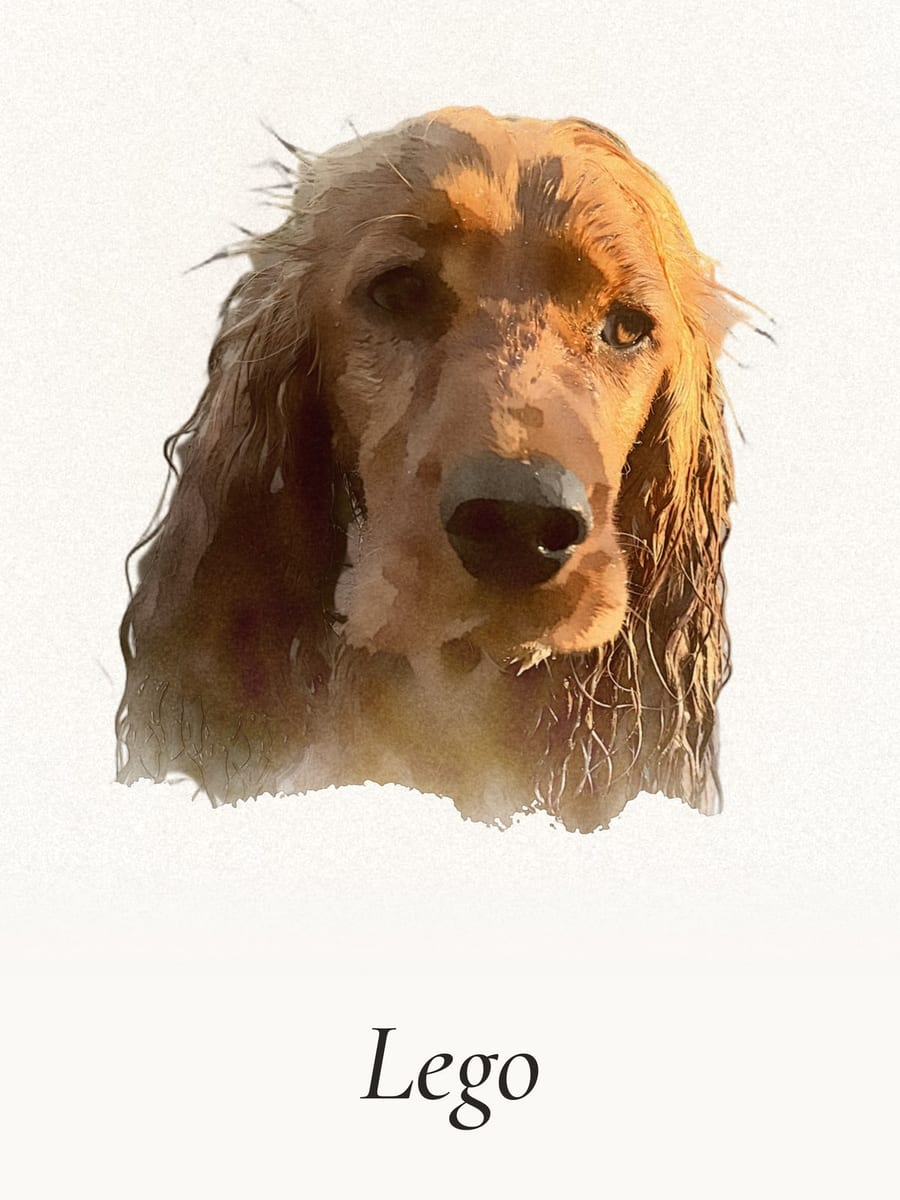
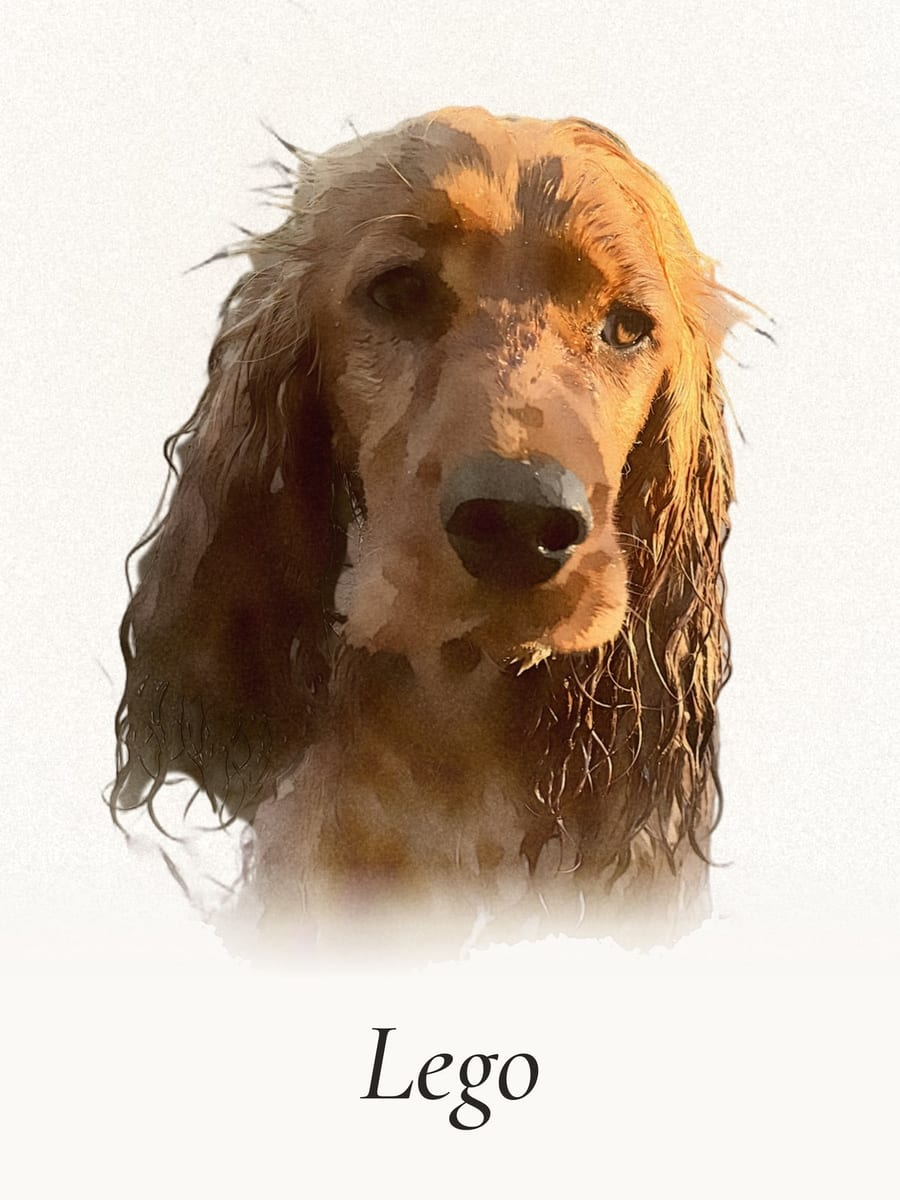
Watercolour fills the poster: the coat runs down to the name
Claude-Session: https://claude.ai/code/session_01UCUSKhpSLerF4seEvYFAdx

Changed region(s): [[0.0933, 0.5242, 0.8089, 0.8017]]

diff --git a/portretai/app/globals.css b/portretai/app/globals.css
@@ -1462,7 +1462,7 @@ main:has(> .closing:last-child) + .site-footer {
[1 lines of base64/hex data omitted]
 }
 .style-chip--akvarele {
[2 lines of base64/hex data omitted]
 }
 .style-chip--grafika {
[1 lines of base64/hex data omitted]

diff --git a/portretai/scripts/vietinis/akvarele.py b/portretai/scripts/vietinis/akvarele.py
@@ -109,7 +109,7 @@ deep = (cv2.distanceTransform(closed, cv2.DIST_L2, 5) > 40).astype(np.float32)
 a = np.maximum(a, cv2.GaussianBlur(deep, (0, 0), 6))
 # The painting ends below the chest: pigment thins out over a band, and the
 # last stroke breaks up like a dry brush dragged over rough paper.
-lim = 0.72 * H - 0.035 * H * ((xx - W / 2) / (W / 2)) ** 2
+lim = 0.84 * H - 0.035 * H * ((xx - W / 2) / (W / 2)) ** 2
 big_n = (noise(420, 3, 21) - 0.5) * 0.09 * H
 rough = (noise(18, 2, 23) - 0.5) * 0.012 * H
 edge_line = lim + big_n + rough
